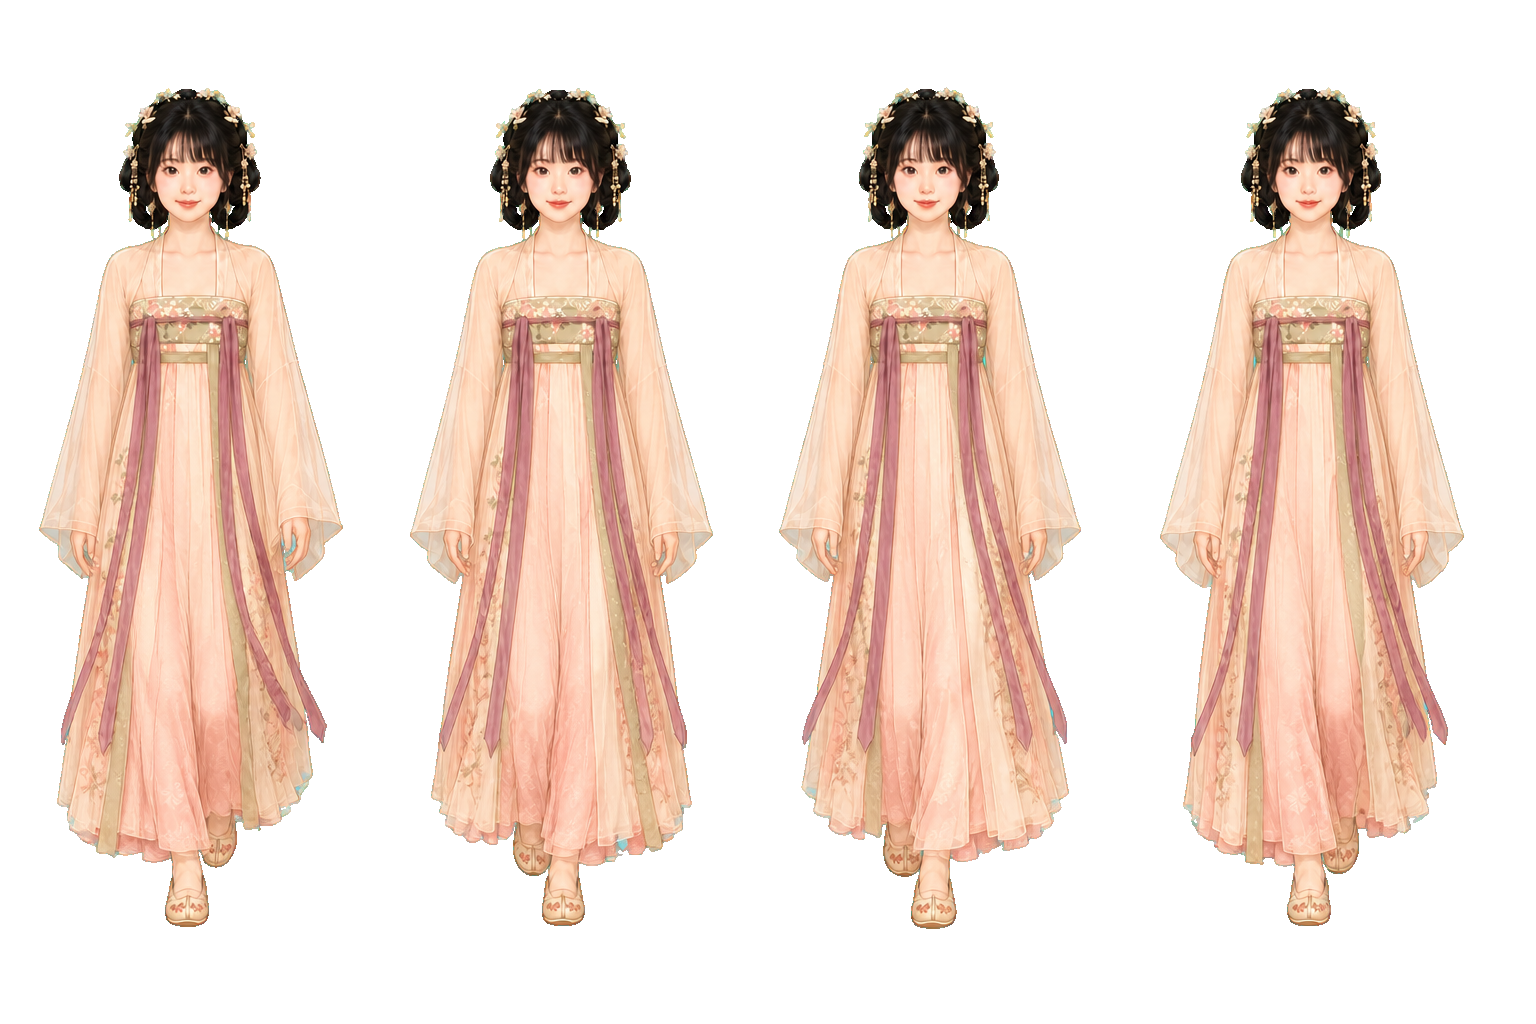
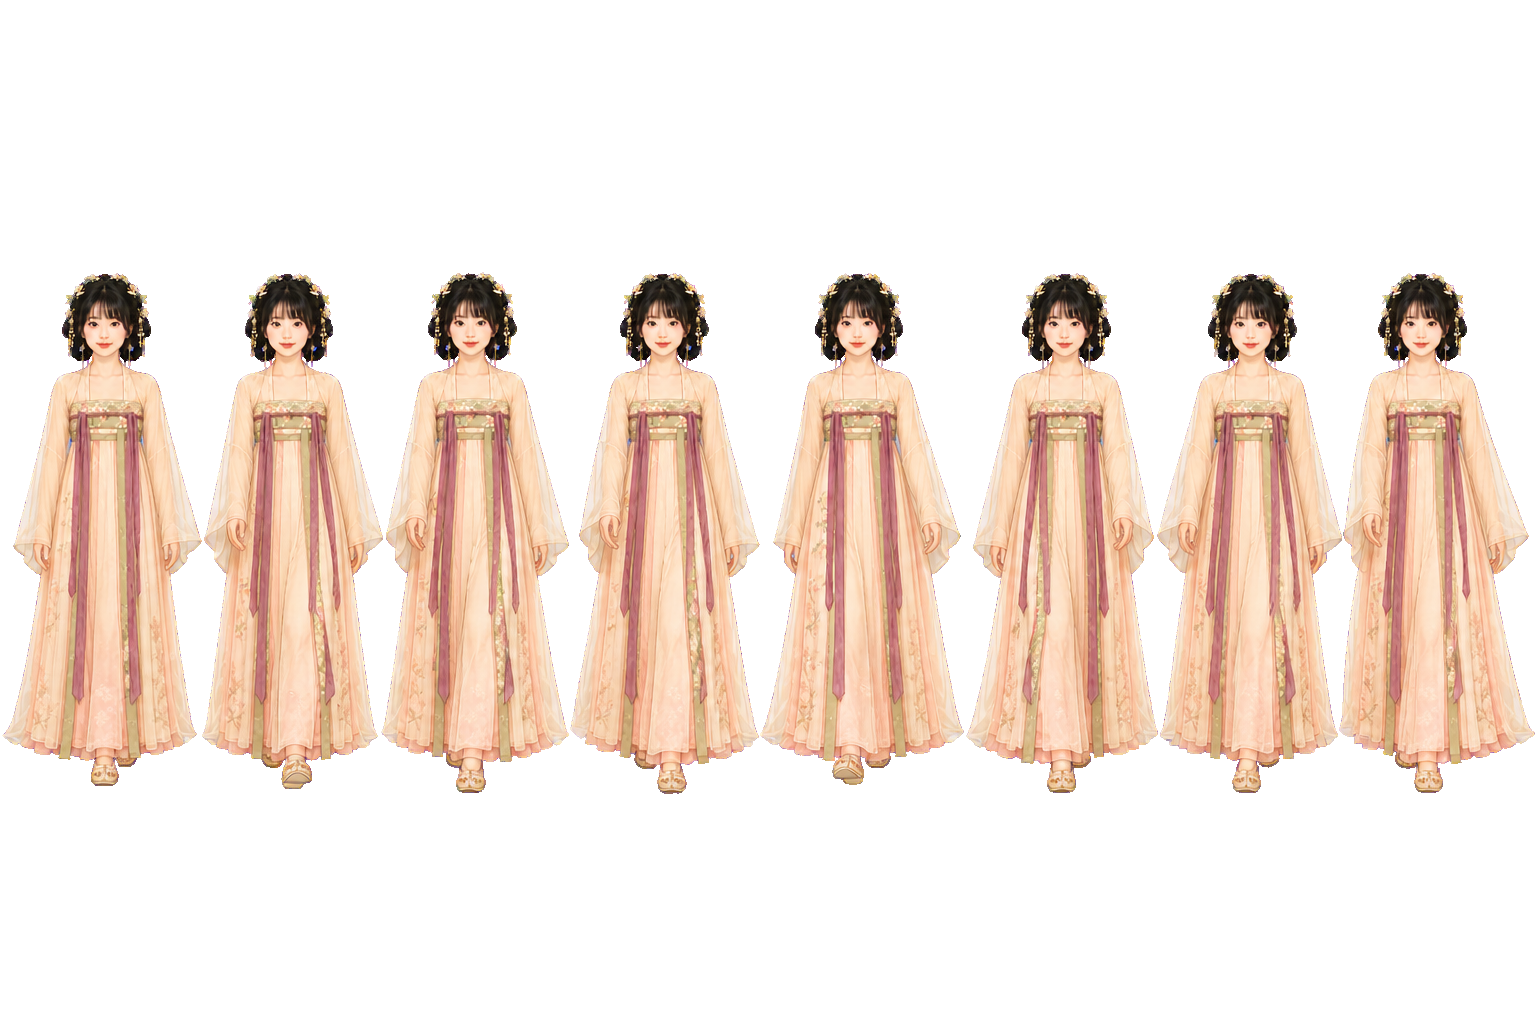
feat: smooth PangYu walk and eat animations

diff --git a/tests/pet/characterPackage.test.js b/tests/pet/characterPackage.test.js
@@ -122,6 +122,13 @@ describe("character packages", () => {
         bundleId: "com.iifor.uno-pangyu",
         description: "安静的汉服桌面宠物。",
         idlePoses: ["idle-stand", "idle-sit"],
+        animationOverrides: {
+          "walk-slow-left": { frameCount: 8, fps: 8 },
+          "walk-slow-right": { frameCount: 8, fps: 8 },
+          "walk-slow-up": { frameCount: 8, fps: 8 },
+          "walk-slow-down": { frameCount: 8, fps: 8 },
+          "eat-normal": { frameCount: 6, fps: 6 },
+        },
       },
       "uno-yan": {
         displayName: "UNO Yan",
@@ -172,18 +179,36 @@ describe("character packages", () => {
   test("trims only PangYu's transparent trailing atlas columns", async () => {
     const repaired = {
[10 lines of base64/hex data omitted]
     };
 
     await expectRepairedStrips("uno-pangyu", repaired);
+  });
+
+  test("ships PangYu's approved smoother animation contract", async () => {
+    const pangYu = JSON.parse(await readFile(
+      join(packageRoot, "uno-pangyu", "character.json"),
+      "utf8",
+    ));
+    expect(pangYu.animationOverrides).toEqual({
+      "walk-slow-left": { frameCount: 8, fps: 8 },
+      "walk-slow-right": { frameCount: 8, fps: 8 },
+      "walk-slow-up": { frameCount: 8, fps: 8 },
+      "walk-slow-down": { frameCount: 8, fps: 8 },
+      "eat-normal": { frameCount: 6, fps: 6 },
+    });
+    await expectRepairedStrips("uno-pangyu", {
[5 lines of base64/hex data omitted]
+    });
+    await expect(validateCharacterPackage(packageRoot, "uno-pangyu")).resolves.toEqual([]);
   });
 
   test("keeps retained canonical sources at the public package root", async () => {
